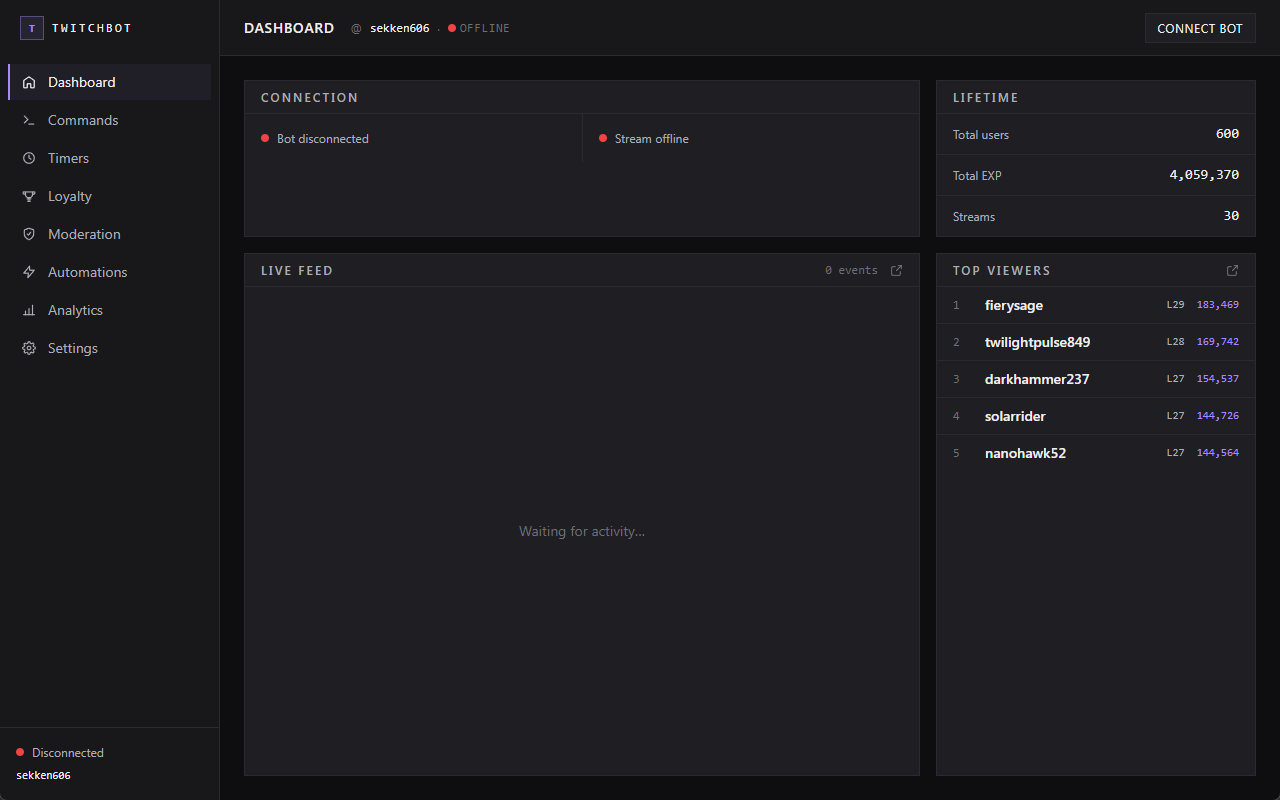
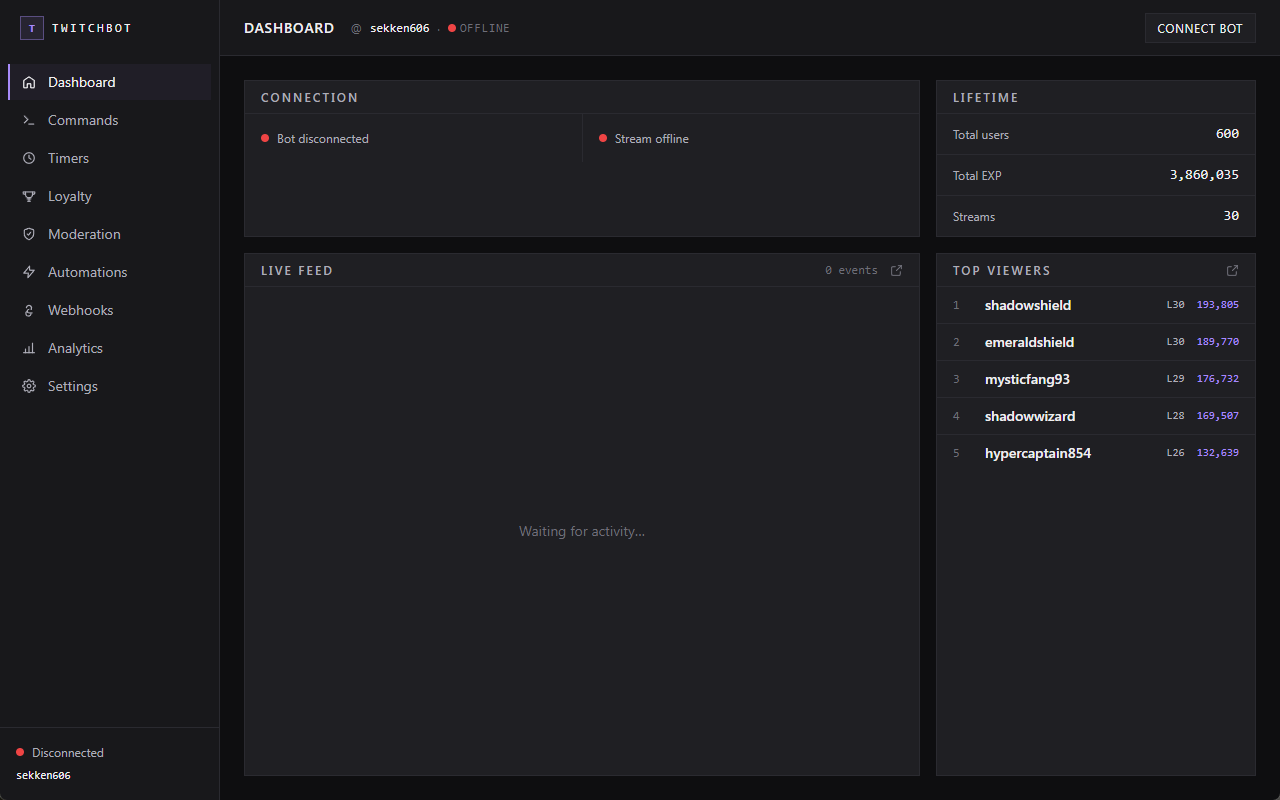
docs: refresh README + CHANGELOG + screenshots for embed builder + moderation v2 (#23)
Closes #22

- README "What it does": expanded mod bullet to 7 rule types + 4-tier
  escalation; promoted Discord webhooks to a first-class bullet; refined
  timers and automations bullets.
- README "Screens": rewrote Moderation, Timers, Automations entries to
  reflect current UI; added a new Webhooks section.
- README config table: added a second table for the moderation rule
  toggles + per-rule start_tier concept.
- README dev guide: bumped unit-test count to 55 and IPC count to 57;
  noted main branch protection; updated sidebar nav order and Alt+1..9
  hotkey description; added Webhooks page to project layout.
- CHANGELOG: added Unreleased entries for PR #19 (embed builder) and
  PR #21 (moderation v2) in reverse chronological order.
- Screenshots: regenerated all nine pages via the capture script.
  Moderation/Timers/Automations renumbered (06/07/08); new Webhooks
  shot at 09; Analytics + Settings shifted to 10/11. Removed the
  superseded 03-timers, 05-moderation-rules, 06-moderation-logs,
  07-automations files.
- capture-screenshots.ps1: updated to walk the new nine-page sidebar
  order with the new filenames.
- Webhooks.tsx maskUrl: tightened webhook-URL masking to host + last 4
  chars only — the previous mask leaked enough of a real Discord token
  prefix to be identifying. Pure UI/privacy fix; no data shape change.

diff --git a/src/pages/Webhooks.tsx b/src/pages/Webhooks.tsx
@@ -285,8 +285,15 @@ function WebhookManager({
 }
 
 function maskUrl(url: string): string {
-  if (url.length <= 60) return url;
-  return `${url.slice(0, 40)}…${url.slice(-12)}`;
+  if (!url) return '';
+  // Discord webhook URLs embed an auth token. Show only the host + a short
+  // tail so the secret never lands on screen (or in screenshots).
+  try {
+    const parsed = new URL(url);
+    return `${parsed.host}/…/${url.slice(-4)}`;
+  } catch {
+    return url.length > 24 ? `${url.slice(0, 20)}…` : url;
+  }
 }
 
 // ── Section 2 + 3: Embed template editor + live preview ─────────────────────

diff --git a/CHANGELOG.md b/CHANGELOG.md
@@ -5,6 +5,25 @@ All notable changes to this project will be documented here.
 The format is based on [Keep a Changelog](https://keepachangelog.com/en/1.1.0/),
 and this project adheres to [Semantic Versioning](https://semver.org/spec/v2.0.0.html).
 
+## [Unreleased]
+
+### Moderation Suite v2 ([#21](https://github.com/9ny4/twitchbot/pull/21))
+- Added blocked words rule (case-insensitive substring match against a JSON word list).
+- Added first-message screening that auto-deletes the first chat from any user with `messages_sent = 0` (subscribers exempt).
+- Added per-rule escalation override: `mod_<rule>_start_tier` (1–4) shifts the offence ladder so the first violation can land on any tier.
+- Added moderation analytics — `mod:getStats` returns counts by timeframe (today / 7d / 30d), per-rule breakdown, top warned users (30d), and action distribution.
+- Added paginated moderation log — `mod:getWarningsPage` with `{ page, pageSize, ruleFilter, sortOrder }` and a 25/page default.
+- Added Discord webhook alerts for every mod action, dispatched via the seeded `moderation` embed template (editable in the Webhooks page).
+- Rewrote `Moderation.tsx`: stats strip, blocked-words tag input, per-rule start-tier dropdowns, first-message toggle card, Discord alerts section, paginated warnings table with rule filter and Prev/Next.
+
+### Discord Embed Builder ([#19](https://github.com/9ny4/twitchbot/pull/19))
+- Added Webhooks page with three sections: webhook URL manager, visual embed template editor, and a live Discord-style preview that renders as you type.
+- Extended the `send_discord_webhook` automation action with an optional `embed` (title, description, color, author, thumbnail, fields, footer, timestamp). Plain-text webhooks unchanged.
+- Added embed-template storage and IPC: `webhooks:getTemplates`, `webhooks:saveTemplate`, `webhooks:deleteTemplate`, `webhooks:testEmbed`.
+- Extracted `electron/services/discord-webhooks.ts` consolidating webhook URL CRUD, template CRUD, and the payload builder that resolves template variables across every embed field.
+- Enriched automation context variables from 6 to 16: raid (`raider`, `raid_size`, `from_channel`), subscription (`tier_label`, `months`, `is_gift`, `is_anonymous`, `sub_message`), cheer (`cheer_message`), and a global `timestamp`.
+- New sidebar entry + `/webhooks` route + Alt+7 hotkey.
+
 ## [1.0.0] — 2026-04-23
 
 Initial release.